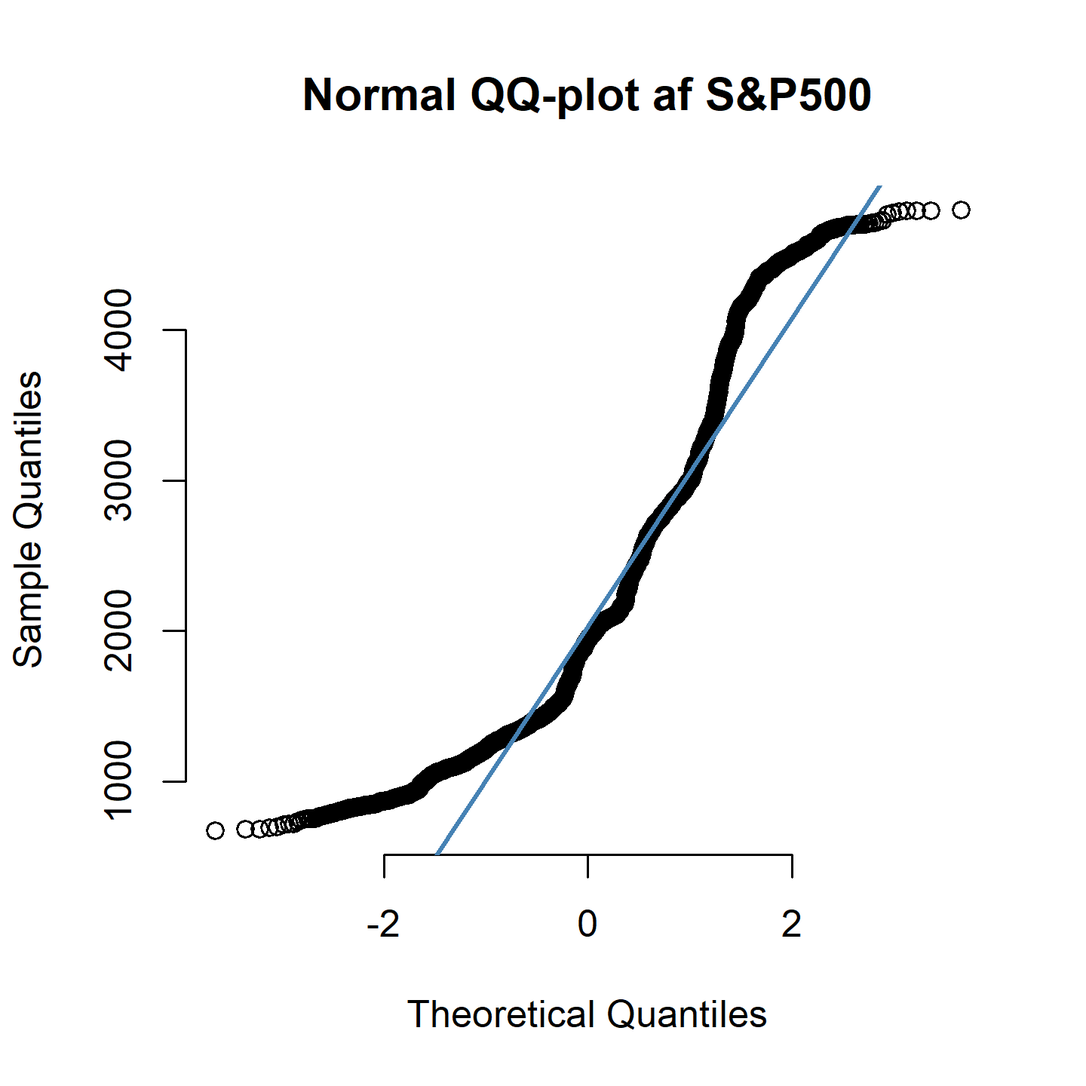
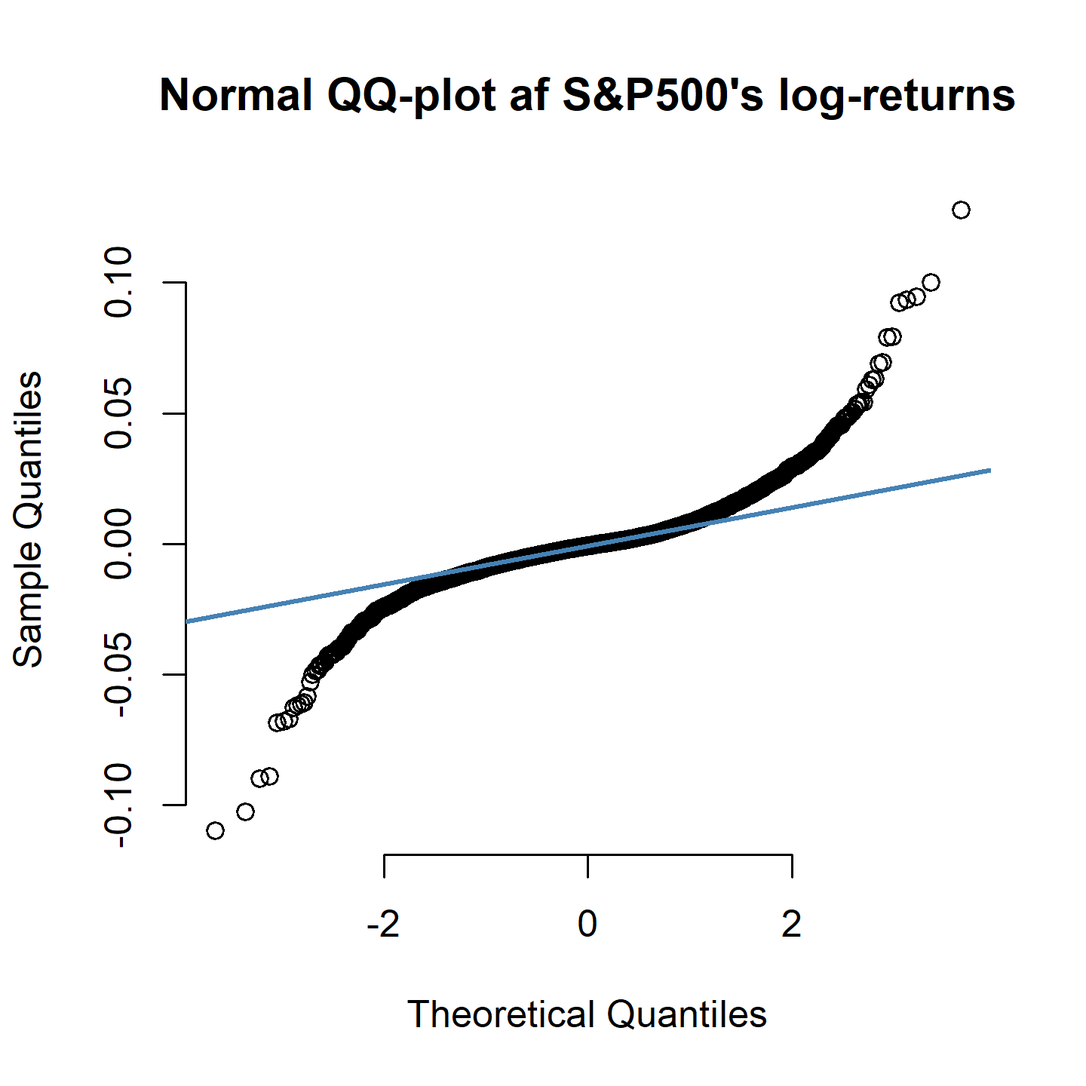
Post-Afleverings redigeringer

diff --git a/Overleaf/main.tex b/Overleaf/main.tex
@@ -17,6 +17,8 @@
 \usepackage{xcolor}
 %\usepackage{allrunes}
 \usepackage{setspace}
+\usepackage[normalem]{ulem}
+
 
 %%%%%%%%%%%%%%%%%%%%%%%%%%%%%%%%
 %%          TITLE             %%
@@ -111,12 +113,12 @@
 
 \newpage
 \setcounter{section}{-1}
-\section{Indeledning}
-I denne afhandling bliver der lagt ud med studie om, hvorvidt en Ornstein-Uhlenbeck proces med mean-reversion passer godt til de data vi ser fra VIX og S\&P500, samt hvor præcis vi kan estimere modellens parametre.
+\section{Indledning}
+I denne afhandling bliver der lagt ud med et studie om, hvorvidt en Ornstein-Uhlenbeck proces med mean-reversion passer godt til de data vi ser fra VIX og S\&P500, samt hvor præcis vi kan estimere modellens parametre.
 
-Efter det bliver der taget et dyk ned i hvorvidt en geometrisk brownsk proces med drift i stedet for mean-reversion lader til passe med vores data, og dertil bliver der undersøgt, hvor præcis denne model er til at kunne delta-hedge call optioner. I denne del bliver tid-t priserne og optioners delta også udledt, ikke mindst gennem brugen af Itôs-formel.
+Herefter bliver der taget et dyk ned i hvorvidt en geometrisk brownsk proces med drift i stedet for mean-reversion lader til at passe med vores data fulgt op an en undersøgelse af, hvor præcis denne model er i forhold til at kunne delta-hedge optioner. I denne del bliver tid-t priserne og optioners delta også udledt, ikke mindst gennem brugen af Itôs-formel.
 
-Til sidst kigger vi også på, hvad man kan gøre for at forbedre præcisionen gennem estimationen for den brownske bevægelses volatilitet.
+Afslutningsvis kigger vi på, hvad man kan gøre for at forbedre præcisionen gennem estimation for den brownske bevægelses volatilitet.
 
 Gennem meget af denne afhandling gøres der brug af programmeringssproget R. Koden er her todelt. Afsnit 1 og 3 bruger filen "R code del 1.R", mens afsnit 2 bruger filen "Rolf\_Hedge\_kode.R". Disse filer sammen med dette latex dokument kan findes på GitHub linket \href{https://github.com/JonasW01ff/Bachelor-Projekt}{https://github.com/JonasW01ff/Bachelor-Projekt}. Synes man, at billederne er lidt små, da kan de også findes i .png format inde på GitHub linket.
 \newpage
@@ -135,13 +137,13 @@ Nu integrerer vi fra t til t+u
 $$e^{\kappa(t+u)}X_{t+u}-e^{\kappa t}X_t=\left[\theta e^{\kappa t}\right]_{t}^{t+u}+\int_{t}^{t+u}\sigma e^{\kappa t}\text d W_t$$
 $$\ens X_{t+u}=e^{-\kappa u}X_t + e^{-\kappa(t+u)}\left[\theta e^{\kappa t}\right]_{t}^{t+u}+e^{-\kappa(t+u)}\int_{t}^{t+u}\sigma e^{\kappa t}\text d W_t$$
 $$=e^{-\kappa u}X_t + \theta(1-e^{-\kappa u})+e^{-\kappa(t+u)}\int_{t}^{t+u}\sigma e^{\kappa t}\text d W_t$$
-Her indser vi, at det eneste stokastiske i udtrykket, er det stokastiske intergrale af en deterministisk funktion med hensyn til en wiener process selv hvis det er betinget på filtreringen $\mathcal F_t$ som er informationen genereret af $X$ over tidsintervallet $[0,t]$; Dvs, på samme måde som Björk definere det i definition 4.3 \cite{Bjork2020}. Derfor ved vi, at $X_{t+u}$ er normalfordelt, hvilket også gælder hvis den er betinget på $\mathcal F_t$, efter som at wiener processen også er normalfordelt, selv hvis den er betinget på $\mathcal F_t$, j.f. \cite{Bjork2020} definition 4.1. Vi kan nu udlede den betingede middelværdi og varians. Det bruges nedenfor at forventningen til $\text dW_t$ er 0, så det stokastiske intergrale går ud.
+Her indser vi, at det eneste stokastiske i udtrykket, er det stokastiske intergrale af en deterministisk funktion med hensyn til en wiener process selv hvis det er betinget på filtreringen $\mathcal F_t$ som er informationen genereret af $X$ over tidsintervallet $[0,t]$; Dvs, på samme måde som Björk definere det i definition 4.3 \cite{Bjork2020}. Derfor ved vi, at $X_{t+u}$ er normalfordelt, hvilket også gælder hvis den er betinget på $\mathcal F_t$, efter som at wiener processen også er normalfordelt, selv hvis den er betinget på $\mathcal F_t$, j.f. \cite{Bjork2020} definition 4.1. Vi kan nu udlede den betingede middelværdi og varians. \textcolor{red}{Nedenfor bruges Björks proposition 4.5. \cite{Bjork2020}.}
 
 $$\text E\left[X_{t+u}|\mathcal F_t\right] = e^{-\kappa u}X_t + \theta(1-e^{-\kappa u}) + e^{-\kappa(t+u)}\text E\left[\int_{t}^{t+u}\sigma e^{\kappa t}\text d W_t|\mathcal F_t\right]$$
 $$=e^{-\kappa u}X_t + \theta(1-e^{-\kappa u})$$
 $$\text V\left[X_{t+u}|\mathcal F_t\right]= \text E\left[\left(e^{-\kappa(t+u)}\int_{t}^{t+u}\sigma e^{\kappa t}\text d W_t\right)^2|\mathcal F_t\right]$$
-$$= e^{-2\kappa(t+u)}E\left[\left(\int_{t}^{t+u}\sigma e^{\kappa t}\text d W_t\right)^2|\mathcal F_t\right]= e^{-2\kappa(t+u)}\text E \left[\int_{t}^{t+u}\sigma^2 e^{2\kappa t}\text (d W_t)^2|\mathcal F_t\right]$$
-$$=e^{-2\kappa(t+u)}\text E \left[\int_{t}^{t+u}\sigma^2 e^{2\kappa t}\text dt|\mathcal F_t\right]=e^{-2\kappa(t+u)}\text E \left[\left[\frac{\sigma^2 e^{2\kappa t}}{2\kappa}\right]_{t}^{t+u}|\mathcal F_t\right]$$
+\textcolor{red}{$$= e^{-2\kappa(t+u)}E\left[\left(\int_{t}^{t+u}\sigma e^{\kappa t}\text d W_t\right)^2|\mathcal F_t\right]= e^{-2\kappa(t+u)}\int_{t}^{t+u}\text E \left[\sigma^2 e^{2\kappa t}|\mathcal F_t\right]\text dt$$\newpage
+$$=e^{-2\kappa(t+u)}\int_{t}^{t+u}\text E \left[\sigma^2 e^{2\kappa t}|\mathcal F_t\right]\text dt=e^{-2\kappa(t+u)}\left[\frac{\sigma^2 e^{2\kappa t}}{2\kappa}\right]_{t}^{t+u}$$}
 $$=e^{-2\kappa(t+u)}\frac{\sigma^2 (e^{2\kappa (t+u)}-e^{2\kappa t})}{2\kappa}=\frac{\sigma^2 (1-e^{-2\kappa u})}{2\kappa}$$
 Det vil sige $X_{t+u}|\mathcal F_t\sim\mathcal N\left(e^{-\kappa u}X_t + \theta(1-e^{-\kappa u}),\frac{\sigma^2 (1-e^{-2\kappa u})}{2\kappa}\right)$
 
@@ -155,19 +157,19 @@ $$\ell(\text{data};a,b,v)=\ln(L(\text{data};a,b,v))=\sum_{i=1}^n \ln\left(\frac1
 $$=\sum_{i=1}^n-\frac12\ln(v2\pi)-\frac{(x_i-x_{i-1}a-b)^2}{2v}$$
 Vi finder først MLE for $a,b$ og $v$. Nedenfor definerer jeg en notation, hvor subskriften angiver hvor meget bagud lag der er på variablen, f.eks. $x_{01}^\bullet:=\sum_{i=1}^nx_ix_{i-1}$
 
-$$ 0=\frac{\partial \ell}{\partial a}=\sum_{i=1}^n\frac{x_i-x_{i-1}a-b}{v}x_{i-1}\ens0=\sum_{i=1}^n x_ix_{i-1}-x_{i-1}^2a-bx_{i-1}$$
+$$ 0=\frac{\partial \ell}{\partial a}=\sum_{i=1}^n\frac{x_i-x_{i-1}a-b}{v}x_{i-1}\ens0=\sum_{i=1}^n x_ix_{i-1}-\color{red}(x_{i-1})^2\color{black}a-bx_{i-1}$$
 $$:=x^\bullet_{01}-x^\bullet_{11}a-x^\bullet_1b\ens \hat a=\frac{x_{01}^\bullet-x^\bullet_1\hat b}{x^\bullet_{11}}$$
 
 $$0=\frac{\partial \ell}{\partial b}=\frac{x^\bullet_0-x_1^\bullet a-nb}{v}\ens nb = x_0^\bullet-x_1^\bullet\left[ \frac{x_{01}^\bullet}{x_{11}^\bullet}-\frac{x_1^\bullet}{x_{11}^\bullet}b \right]$$
-$$\ens b\left(n-x_1^\bullet\frac{x_1^\bullet}{x_{11}^\bullet}\right)=x_0^\bullet-x_1^\bullet\frac{x_{01}^\bullet}{x_{11}^\bullet}\ens \hat b = \frac{x_0^\bullet-x_1^\bullet\frac{x_{01}^\bullet}{x_{11}^\bullet}}{n-x_1^\bullet\frac{x_1^\bullet}{x_{11}^\bullet}}$$
+$$\ens b\left(n-x_1^\bullet\frac{x_1^\bullet}{x_{11}^\bullet}\right)=x_0^\bullet-x_1^\bullet\frac{x_{01}^\bullet}{x_{11}^\bullet}\ens \hat b = \frac{x_0^\bullet-x_1^\bullet\frac{x_{01}^\bullet}{x_{11}^\bullet}}{n-x_1^\bullet\frac{x_1^\bullet}{x_{11}^\bullet}}\color{red}=\frac{\frac{x_0^\bullet}{x_1^\bullet}-\frac{x_{01}^\bullet}{x_{11}^\bullet}}{\frac{n}{x_1^\bullet}-\frac{x_{1}^\bullet}{x_{11}^\bullet}}=\frac{x_0^\bullet x_{11}^\bullet-x_{01}^\bullet x_1^\bullet}{n x_{11}^\bullet- x_1^{\bullet}x_1^{\bullet}}\color{black}$$
 
 $$0=\frac{\partial \ell}{\partial v}=\sum_{i=1}^n -\frac12\frac{2\pi}{v2\pi}+\frac{(x_i-x_{i-1}a-b)^2}{2v^2}\ens 0=\sum_{i=1}^n -v+(x_i-x_{i-1}a-b)^2$$
 $$\hat v = \frac1n\sum_{i=1}^n(x_i-x_{i-1}\hat a-\hat b)^2$$
-Her bør man bemærke, at observationerne er antaget ækvidistante så ledes at $\Delta t_i$ kan beskrives med en enkelt konstant $\Delta t$. Dvs., at udledningen ovenfor kun gælder, hvis obervationerne er ækvidistante. 
+Her bør man bemærke, at observationerne er antaget ækvidistante så ledes at $\Delta t_i$ kan beskrives med en enkelt konstant $\Delta t$\color{red}; At vi bruger et konstant $\Delta t_i$ kan ses i loglikelihoodfunktionen, hvor at $\Delta t$ bruges istedet for $\Delta t_i$, dvs. i $a$,$b$ og $v$\color{black}. Dvs., at udledningen ovenfor kun gælder, hvis obervationerne er ækvidistante. 
 MLE for $\kappa,\theta,\sigma^2$ findes ved at sige.
 $$e^{-\kappa\Delta t}=\hat a\ens \hat \kappa=\frac{\ln(\hat a)}{-\Delta t}$$
-$$\theta(1-e^{-\hat \kappa \Delta t})=\hat b\ens \hat \theta =\frac{\hat b}{1-e^{-\hat \kappa\Delta t}}$$
-$$\sigma^2(1-e^{-2\hat\kappa\Delta t})/(2\hat\kappa)=\hat v \ens \hat{\sigma^2}=\frac{2\hat\kappa\hat v}{1-e^{-2\hat\kappa\Delta t}}$$
+$$\theta(1-e^{-\hat \kappa \Delta t})=\hat b\ens \hat \theta =\frac{\hat b}{1-e^{-\hat \kappa\Delta t}}\color{red}=\frac{\hat b}{1-\hat a}\color{black}$$
+$$\sigma^2(1-e^{-2\hat\kappa\Delta t})/(2\hat\kappa)=\hat v \ens \hat{\sigma^2}=\frac{2\hat\kappa\hat v}{1-e^{-2\hat\kappa\Delta t}}\color{red}=\frac{2\hat\kappa\hat v}{1-{\hat a}^2}\color{black}$$
 Vi er dog også interesserede i  konfidensintervallerne for vore parametre, og til det bruges et simulations eksperiment omkring vores MLE'er. Det kunne dog godt tænkes, at et smartere trick angående fisher informationen og den asymptotiske statistik-lære kunne bruges, men dette gøres først senere.
 
 \subsection{Reality check}
@@ -182,13 +184,14 @@ Ved simulation finder vi, at MLE'erne passer ret godt. Det gør vi ved at at sim
  0.05&0.2&0.4&5&100&(-0.25, 2.85)&(-4.79, 9.28)&(0.02, 1.31)\\
  0.05&0.2&0.4&100&100&(0.03, 0.26)&(-1.96, 3.05)&(0.30, 0.49)\\
  0.05&0.2&0.4&1000&100&(0.04, 0.08)&(-0.44, 0.94)&(0.37, 0.44)\\
- 0.05&0.2&0.4&10000&100&(0.04, 0.06)&(-0.04, 0.43)&(0.39, 0.41)
+ 0.05&0.2&0.4&10000&100&(0.04, 0.06)&(-0.04, 0.43)&(0.39, 0.41)\\
+ \color{red}0.05&\color{red}0.2&\color{red}0.4&\color{red}100000&\color{red}100&\color{red}(0.048, 0.052)&\color{red}(0.13, 0.27)&\color{red}(0.397, 0.403)
 \end{tabular}
 %\end{table}
 \end{center}
 Det blev her forudsat at observationerne var fordelt med 
 $$X_{t+u}|\mathcal F_t\sim\mathcal N\left(e^{-\kappa u}X_t + \theta(1-e^{-\kappa u}),\frac{\sigma^2 (1-e^{-2\kappa u})}{2\kappa}\right)$$
-hvor $X_t=100$. Vi ser at konfidens intervallerne ligger rigtig pænt rundt om de sande parametre. Det lader derfor til at MLE'erne er rigtige. Vi ser også, at det kræver omkring 1000 observationer for at få nogenlunde gode konfidensintervaller, $\theta$ lader dog til at kræve flere observationer, end vi har tester her (Komputer har ikke uanede mængder processor kraft), så dette motiverer os til at finde de asymptotiske konfidensintervaller i afsnit 1.5, da dette vil kræve meget færre udregninger.  
+hvor $X_t=100$. Vi ser at konfidens intervallerne ligger rigtig pænt rundt om de sande parametre. Det lader derfor til at MLE'erne er rigtige. Vi ser også, at det kræver omkring 1000 observationer for at få nogenlunde gode konfidensintervaller; $\theta$ \color{red}lader dog til at kræve et  $n=100000$, hvilket må siges at være ret meget, og beregningsmæssigt tungt;\color{black} så dette motiverer os til at finde de asymptotiske konfidensintervaller i afsnit 1.5, da dette vil kræve meget færre udregninger.  
 \subsection{log likelihood afledte}
 I det næste afsnit får vi brug for vore loglikelihoods afledte. Til det lad os først definere en notation hvor at $f(z_1,\hdots,z_n)_{z_{I_1},\hdots,z_{I_m}}:=\frac{\partial^m f}{\partial z_{I_1}\hdots\partial z_{I_m}}$ hvor $I\in \mathcal P(\mathbb N)$, og funktioner, hvor parametrene ikke er angivet: Tages parametrene $(x_i;x_ie^{-\kappa\Delta t}+\theta(1-e^{-\kappa\Delta t}),\frac{\sigma^2(1-e^{-2\kappa\Delta t})}{2\kappa})$. Dermed får vi resulaterne.
 $$\frac{\partial \ell}{\partial \theta}=\sum_{i=1}^n\frac{1}{\phi}\phi_\mu\mu_\theta$$
@@ -205,7 +208,7 @@ De anden afledte lader vi udregne ved numerisk approximation.
 %$$\frac{\partial^2 \ell}{\partial \theta\partial \kappa}=\sum_{i=1}^n-\frac{1}{\phi(i)^2}\phi_\kappa\phi_\mu\mu_\theta+\frac1{\phi(i)}\phi_{\mu\kappa}\mu_\theta+\frac{1}{\phi(i)}\phi_\mu\mu_{\theta\kappa}$$
 %$$\frac{\partial^2 \ell}{\partial \theta\partial \sigma}=\sum_{i=1}^n-\frac{1}{\phi(i)^2}\phi_\sigma\phi_\mu\mu_\theta+\frac1{\phi(i)}\phi_{\mu\sigma}\mu_\theta+\frac{1}{\phi(i)}\phi_\mu\mu_{\theta\sigma}$$
 \subsection{Det asymptotiske konfidensinterval}
-Det er et velkendt resultat at normal fordeling er en eksponentiel familie, og vi kan dermed bruge lauritzen 2021's Theorem 4.11 \cite{Lauritzen2021} til at opskrive.
+Det er et velkendt resultat at normal fordeling er en eksponentiel familie, og vi kan dermed bruge lauritzen 2021's \color{red}Theorem 4.14\color{black} \cite{Lauritzen2021} til at opskrive.
 $$(\hat\kappa,\hat\theta,\hat{\sigma^2})\overset{as}{\sim}\mathcal N_3((\kappa,\theta,\sigma^2),\tilde{i}_n (\kappa,\theta,\sigma^2)^{-1})$$
 Det vil sige, at har vi fisher informationen $\tilde{i}_n (\kappa,\theta,\sigma^2)^{-1})$, så kan vi finde $1-\alpha$ konfidenstinervallet som:
 $$(\hat\kappa,\hat\theta,\hat{\sigma^2})\pm \sqrt{\text{diag}(\tilde{i}_n (\hat\kappa,\hat\theta,\hat{\sigma^2})^{-1})}\gamma_{1-\alpha/2}$$
@@ -255,12 +258,12 @@ Resultaterne ser her meget fornuftigt ud. Vi kan nu bruge vores MLE til at plott
     \label{fig:logVIX}
 \end{subfigure}
 \end{figure}
-Man ser her, at vores processer følger ln(VIX) bedre end VIX, selvom der stadig er tydelige afvigelser, idet processerne ikke ligner dataen. Vi kan også kigge på vores antagelse om at VIX er normalfordelt. Nedenfor ses 2 QQ-plot, der kan hjælpe med at bedømme, hvilken data-serie der passer bedst med normalfordelings antagelsen.
+Man ser her, at vores processer følger ln(VIX) bedre end VIX, selvom der stadig er tydelige afvigelser, idet processerne ikke ligner dataen. Vi kan også kigge på vores antagelse om at VIX er normalfordelt. Nedenfor ses 2 QQ-plot, der kan hjælpe med at bedømme, hvilken data-serie der passer bedst med\color{red}, at en Gausssisk Ornstein-Uhlenbeck proces tilnærmelses vist følger en normalfordeling.\color{black}
 \begin{center}
     \includegraphics[width=4in]{QQ_VIX_vs_lnVIX}
 \end{center}
-Her ses det at ln(VIX) ligger mere normal fordelt i forhold til kvantilerne end VIX gør. Vi kan derfor konkludere, at ln(VIX)-modellen passer bedst til dataene.
-\section{Pricing and hedging in the Black-Scholes model}
+Her ses det at ln(VIX) ligger mere normalfordelt i forhold til kvantilerne end VIX gør. Vi kan derfor konkludere, at ln(VIX)-modellen passer bedst til dataene.
+\section{Pricing \textcolor{red}{og} hedging \textcolor{red}{i} Black-Scholes model\textcolor{red}{len}}
 \subsection{Europæisk call option}
 Til at starte med udledes et brugbart resultat. Vi definerer først en stokastisk differential ligning for en geometrisk brownsk bevægelse.
 $$\text d X_t = \beta X_t\text dt+\xi X_t \text dW_t$$
@@ -268,41 +271,45 @@ Og funktionen samt procesen.
 $$f(t,x)=e^{(\beta-\alpha)(T-t)}x,\quad Y_t=f(t,X_t)=e^{(\beta-\alpha)(T-t)}X_t$$
 Vi kan nu finde $X_t$ ved brug af itô's formel, proposition 4.12 i Björk \cite{Bjork2020}.
 $$\text dY_t=-(\beta-\alpha)e^{(\beta-\alpha)(T-t)}X_t\text d_t+e^{(\beta-\alpha)(T-t)}\text dX_t$$
-$$=-(\beta-\alpha)e^{(\beta-\alpha)(T-t)}X_t\text dt+e^{(\beta-\alpha)(T-t)}(\beta X_t\text dt+\xi X_t\text dW_t)$$
-$$=e^{(\beta-\alpha)(T-t)}X_t(\beta-(\beta-\alpha))\text dt+\xi X_t\text dW_t$$
-$$=e^{(\beta-\alpha)(T-t)}X_t\alpha\text dt+\xi X_t\text dW_t$$
+$$=-(\beta-\alpha)e^{(\beta-\alpha)(T-t)}X_t\text dt+e^{(\beta-\alpha)(T-t)}(\beta X_t\text dt+\xi \color{red}Y_t\color{black}\text dW_t)$$
+$$=e^{(\beta-\alpha)(T-t)}X_t(\beta-(\beta-\alpha))\text dt+\xi \color{red}Y_t\color{black}\text dW_t$$
+$$=\alpha\color{red}Y_t\color{black}\text dt+\xi \color{red}Y_t\color{black}\text dW_t$$
 Vi bruger Björks proposition 7.13 \cite{Bjork2020}, hvor ligning (7.53) og (7.54) giver os at
 $$d_1(t,Y_0) :=\frac{1}{\xi\sqrt{T-0}}\left[\ln\left(\frac{Y_0}{K}\right)+(\alpha+\frac12\xi)(T-0) \right]$$
 $$=\frac{T(\beta-\alpha)+\ln\left(\frac{X_0}{K}\right)+(\alpha+\frac12\xi)T}{\xi\sqrt T}=\frac{\ln\left(\frac{X_0}{K}\right)+(\beta+\frac12\xi^2)T}{\xi\sqrt T}$$
 $$d_2(t,Y_0):=\frac{\ln\left(\frac{X_0}{K}\right)+(\beta+\frac12\xi^2)T}{\xi\sqrt T}-\xi\sqrt{T}$$
 $$=\frac{\ln\left(\frac{X_0}{K}\right)+(\beta+\frac12\xi^2)T-\xi^2T}{\xi\sqrt T}=\frac{\ln\left(\frac{X_0}{K}\right)+(\beta-\frac12\xi^2)T}{\xi\sqrt T}$$
-Og dermed får vi det nyttige resultat, som kan ses som en tid T pris tilbage diskonteret til tid t for europæisk call option.
-$$F(t,Y_0)=Y_0\Phi(d_1)-e^{-\alpha T}K\Phi(d_2)$$
+Og dermed får vi det nyttige resultat, som kan ses som en tid T pris tilbage diskonteret til tid 0 for en europæisk call option\color{red} på markedet
+$$\text dB_t = rB_t\text d_t$$
+$$\text d S_t = \mu S_t\text d_t +\sigma \text dW_t$$
+Hvor $B_t$ er bankbogen, og $X_t$ er det underliggende aktiv:
+
+$$e^{-\alpha T}\text E[(X_T-K)^+]=\color{black}F(t,Y_0)=Y_0\Phi(d_1)-e^{-\alpha T}K\Phi(d_2)$$\color{black}
 $$=e^{(\beta-\alpha)T}X_0\Phi\left(\frac{\ln\left(\frac{X_0}{K}\right)+(\beta+\frac12\xi^2)T}{\xi\sqrt T}\right)-e^{-\alpha T}K\Phi\left(\frac{\ln\left(\frac{X_0}{K}\right)+(\beta-\frac12\xi^2)T}{\xi\sqrt T}\right)$$
-Endvidere kunne vi tænke os at finde tid $t-\Delta$'et for vores europæiske call-option i markedet.
+Endvidere kunne vi tænke os at finde tid $t-\Delta$'et for en europæiske call-option i markedet.
 $$\text dB_t = rB_t\text d_t$$
 $$\text d S_t = \mu S_t\text d_t +\sigma \text dW_t^P$$
-P skal her forstås som aktie-pris dynamikken. Pris processen $B_t$ er her det risiko fri aktiv, og pris-processen $S_t$ er aktie kuren. $\mu,r$ og $\sigma>0$ er konstanter. Björks proposition 7.13 \cite{Bjork2020} fortæller os nu at tid-t prisen på den europæiske call option er.
-$$\Pi_t=F(t,S_t)=S_t\Phi\left(\frac{\ln\left(\frac{S_t}{K}\right)+(r+\frac12\sigma^2)(T-t)}{\sigma\sqrt{T-t}}\right)-e^{-r(T-t)}\Phi\left(\frac{\ln\left(\frac{S_t}{K}\right)+(r-\frac12\sigma^2)(T-t)}{\sigma\sqrt{T-t}}\right)$$
-$$:= S_t\Phi(d_1^a)-e^{-r(T-t)}\Phi(d_2^a)$$
+P skal her forstås som aktie-pris dynamikken. Pris processen $B_t$ er her det risiko fri aktiv, og pris-processen $S_t$ er aktiekursen. $\mu,r$ og $\sigma>0$ er konstanter. Björks proposition 7.13 \cite{Bjork2020} fortæller os nu at tid-t prisen på den europæiske call option er.
+$$\Pi_t=F(t,S_t)=S_t\Phi\left(\frac{\ln\left(\frac{S_t}{K}\right)+(r+\frac12\sigma^2)(T-t)}{\sigma\sqrt{T-t}}\right)-e^{-r(T-t)}\color{red}K\color{black}\Phi\left(\frac{\ln\left(\frac{S_t}{K}\right)+(r-\frac12\sigma^2)(T-t)}{\sigma\sqrt{T-t}}\right)$$
+$$:= S_t\Phi(d_1^a)-e^{-r(T-t)}\color{red}K\color{black}\Phi(d_2^a)$$
 tid t-$\Delta$'et er da
 $$\Delta(S_t,t) = \frac{\partial \Pi_t}{\partial S_t}=\Phi(d_1^a)+S_t\frac{\phi(d_1^a)}{S_t\sigma\sqrt{T-t}}-e^{-r(T-t)}K\frac{\phi(d_2^a)}{S_t\sigma\sqrt{T-t}}$$
 $$=\Phi(d_1^a)+\frac{S_t\phi(d_1^a)-e^{-r(T-t)}K\phi(d_2^a)}{S_t\sigma\sqrt{T-t}}=\Phi(d_1^a)+\frac{S_t\phi(d_1^a)-S_t\phi(d_1^a)}{S_t\sigma\sqrt{T-t}}=\Phi(d_1^a)$$
 Her er det brugt at $\phi(d_2^a)=\phi(d_1^a)\frac{S_t}{K}e^{r(T-t)}$, og at standard normalfordelingens tæthedsfunktion er navngivet $\phi$. Nedenfor vises udledning af vores trick.
-$$\phi(d_2^a)=\phi(d_1^a-\sigma\sqrt{T-t})=\frac{1}{\sqrt{2\pi}}e^{-\frac12\left[(d_1^a)^2+\sigma^2(T-t)-2d_1^a\sqrt{T-t}\right]}$$
-$$=\phi(d_1^a)e^{-\frac12\left[\sigma^2(T-t)-2d_1^a\sqrt{T-t}\right]}=\phi(d_1^a)e^{-\frac12\left[\sigma^2(T-t)-2\frac{\ln\left(\frac{S_t}{K}\right)+(r+\frac12\sigma^2)(T-t)}{\sigma\sqrt{T-t}}\sqrt{T-t}\right]}=\phi(d_1^a)\frac{S_t}{K}e^{r(T-t)}$$
+$$\phi(d_2^a)=\phi(d_1^a-\sigma\sqrt{T-t})=\frac{1}{\sqrt{2\pi}}e^{-\frac12\left[(d_1^a)^2+\sigma^2(T-t)-2d_1^a\color{red}\sigma\color{black}\sqrt{T-t}\right]}$$
+$$=\phi(d_1^a)e^{-\frac12\left[\sigma^2(T-t)-2d_1^a\color{red}\sigma\color{black}\sqrt{T-t}\right]}=\phi(d_1^a)e^{-\frac12\left[\sigma^2(T-t)-2\frac{\ln\left(\frac{S_t}{K}\right)+(r+\frac12\sigma^2)(T-t)}{\sigma\sqrt{T-t}}\color{red}\sigma\color{black}\sqrt{T-t}\right]}=\phi(d_1^a)\frac{S_t}{K}e^{r(T-t)}$$
 \subsection{Digital option}
-Ligeledes vil vi nu finde prisen på en digital option. Til det bruges Björks ligning (7.50) \cite{Bjork2020}, Q står her for det risiko neutrale mål. Vi definerer også et $\\Z\sim\mathcal N((r-\frac12\sigma^2)(T-t),\sigma\sqrt{T-t})$ og ligeledes dens henholdvise tæthedsfunktion $\phi_Z$ og fordelingsfunktion $\Phi_Z$. Derudover er $\Pi_t$ den arbitragefri tid-t pris. 
+Ligeledes vil vi nu finde prisen på en digital option \color{red}med strike K; Der bruges det samme marked som vi slutte af med i forrige afsnit\color{black}. Til det bruges Björks ligning (7.50) \cite{Bjork2020}, Q står her for det risiko neutrale mål. Vi definerer også et $\\Z\sim\mathcal N((r-\frac12\sigma^2)(T-t),\sigma\sqrt{T-t})$ og ligeledes dens henholdvise tæthedsfunktion $\phi_Z$ og fordelingsfunktion $\Phi_Z$. Derudover er $\Pi_t$ den arbitragefri tid-t pris. 
 $$E^Q_{t,S_t}\left[1_{S_T\leq K}\right]=\int_{-\infty}^{\infty}1_{S_te^{z}\leq K}\phi_Z(z)\text dz=\int_{-\infty}^{\ln\left(\frac K{S_t}\right)}\phi_Z(z)\text d z=\Phi_Z\left(\ln\left(\frac{K}{S_t}\right)\right)$$
 $$\ens \Pi_t=F(t,S_t)=e^{-r(T-t)}\Phi_Z\left(\ln\left(\frac{K}{S_t}\right)\right)$$
-Vi er ligeledes interesseret i den tid t $\Delta$, som findes nedenfor for vores digitale option.
+Vi er ligeledes interesseret i den tid t-$\Delta$, som findes nedenfor for vores digitale option.
 $$\Delta(S_t,t)=\frac{\partial \Pi_t}{\partial S_t}=e^{-r(T-t)}\phi_Z\left(\ln\left(\frac{K}{S_t}\right)\right)\frac{1}{K/S_t}\left(-\frac{K}{S_t^2}\right)=-e^{-r(T-t)}\phi_Z\left(\ln\left(\frac{K}{S_t}\right)\right)\frac{1}{S_t}$$
 Dette er brugbart da det beskriver, hvor meget der skal investeres i det risiko fyldte aktiv (og der med også det risikofrie aktiv), hvis optionen skal Delta-hedges i Black-Scholes modellen.
 \subsection{Hedging af en europæisk call option}
-Et R program skrevet af Rolf Poulsen (og redigeret af mig, Jonas Wolff) der hedger optioner kan findes på \href{https://github.com/JonasW01ff/Bachelor-Projekt/blob/main/Rolf_Hedge_kode.R}{github.com/JonasW01ff/Bachelor-Projekt/blob/main/Rolf\_Hedge\_kode.R}. Koden udregner blandt andet for en europæisk call option antal aktier i det underliggende aktiv og værdi investeret i bankbogen ved brug af Björks Theorem 8.5 \cite{Bjork2020} til at replikere call optionen, som blandt andet siger at.
+Et R program skrevet af Rolf Poulsen (og redigeret af mig, Jonas Wolff) der hedger optioner kan findes på \href{https://github.com/JonasW01ff/Bachelor-Projekt/blob/main/Rolf_Hedge_kode.R}{github.com/JonasW01ff/Bachelor-Projekt/blob/main/Rolf\_Hedge\_kode.R}. Koden udregner blandt andet for en europæisk call option antal aktier i det underliggende aktiv og antal kroner investeret i bankbogen ved brug af Björks Theorem 8.5 \cite{Bjork2020} til at replikere call optionen, som blandt andet siger at.
 $$h^S_t=\frac{\partial \Pi_t}{\partial S_t}$$
 $$h^B_tB_t=\Pi_t-S_t\frac{\partial \Pi_t}{\partial S_t}$$
-Hvor $h^S_t$ skal forstås som antal aktier i det underliggende aktiv $S_t$, og $h^B_t$ som antal aktier i det risikofri aktiv (Dvs. $h^B_tB_t$ er antal kr. i bankbogen til tid t). Ud fra det kan den replikerende porteføljes værdi udregnes som
+Hvor $h^S_t$ skal forstås som antal aktier i det underliggende aktiv $S_t$, og $h^B_t$ som antal aktier i det risikofri aktiv (Dvs. $h^B_tB_t$ er antal kr. i bankbogen til tid t). Ud fra det kan den replikerende porteføljes værdi udregnes som \color{red}(Dette skal forstås som en identitet; Dermed ikke et resultat)\color{black}
 $$V^h_t=h^S_tS_t+h^B_tB_t=\Pi_t$$
 Disse værdier udregnes Nhedge antal gange inden for løbetiden, med ækvidistante mellem rum (hvor Nhedge er en konstant). Man kan nu gøre dette et antal gange (her kaldet Nrep), og derefter sammenligne den replikerende porteføljes værdi, og optionens værdi $V^{Call}_t=\max(S_t-K,0)$. Dette er f.eks. gjort i koden ved at tage gennemsnitet af de tilbagediskonterede afvigelser. 
 
@@ -314,7 +321,7 @@ Skulle man være i en situation, hvor det underliggende aktivs drift ikke er lig
     \label{fig:my_label4}
 \end{figure}
 
-I tilfældet af at man ikke har fundet det rigtige $\sigma$ til at bruge i black-scholes, da ser vi tilgengæld at de endelige afvigelser mellem den replikerende portefølje og optionen øges. Dette er på grund af at teorien antager, at vi bruger volatiliteten der faktisk er på det risiko fyldte aktiv. Dette ses i figur \ref{fig:my_label4}
+I tilfældet af at man ikke har fundet det rigtige $\sigma$ til at bruge i black-scholes, da ser vi til gengæld at de endelige afvigelser mellem den replikerende portefølje og optionen øges. Dette er på grund af at teorien antager, at vi bruger volatiliteten der faktisk er på det risiko fyldte aktiv. Dette ses i figur \ref{fig:my_label4}
 \begin{figure}
     \centering
     \includegraphics[width=3.5in]{Overleaf/1 opttype_mu_Nhedge.png}
@@ -322,10 +329,10 @@ I tilfældet af at man ikke har fundet det rigtige $\sigma$ til at bruge i black
     \label{fig:my_label5}
 \end{figure}
 
-I forhold til at føre Björks Theorem 8.5 \cite{Bjork2020} ud i livet har vi også et problem i forhold til, at modellen antager, at vi rebalancerer kontinuert over løbetiden, hvilket som bekendt er umuligt. Derfor må vi approksimere ved at rebalancere så ofte som muligt; Det betyder at jo flere gange vi rebalancere, jo mere præcis bliver vores delta hedging. Standardafvigelsen på forskellen mellem den replikerende portefølje og option stiger derfor jo færre rebalanceringer vi laver (Det der i koden kaldes Nhedge). Det tilhørende resultat findes i figur \ref{fig:my_label5}.
+I forhold til at føre Björks Theorem 8.5 \cite{Bjork2020} ud i livet, har vi også et problem i forhold til, at modellen antager, at vi rebalancerer kontinuert over løbetiden, hvilket som bekendt er umuligt: Derfor må vi approksimere ved at rebalancere så ofte som muligt; Det betyder at jo flere gange vi rebalancere, jo mere præcis bliver vores delta hedging. Standardafvigelsen på forskellen mellem den replikerende portefølje og option stiger derfor jo færre rebalanceringer vi laver (Det der i koden kaldes Nhedge). Det tilhørende resultat findes i figur \ref{fig:my_label5}.
 
 
-Kigger vi derimod på den digitale option, ser vi, at præcisionen stadig ikke afhænger nævneværdigt af om driften er lig renten, selvom vi stadig gøre brug af Q-målet. På den anden side bliver vi meget afhængige af om vores estimerede sigma\_hedge faktisk er det rigtige sigma, da et forkert sigma\_hedge vil øge forskellen mellem den replikerende portefølje og optionen gevaldigt. Antalet at rebalanceringer Nhedge, har også en ret stor betydning da vores options payoff ikke er kontinuert, og vi derfor har brug for rebalanceringer ret tæt omkring striken, og da vores rebalancering i vores teori skal være ækvidistante, kan vi ikke gøre andet end at øge antallet af rebalanceringer. Nedenfor vises simulationerne. Resultatet ses i figure \ref{fig:my_label3} og \ref{fig:my_label2}.
+Kigger vi derimod på den digitale option, ser vi, at præcisionen stadig ikke afhænger nævneværdigt af om driften er lig renten\sout{\color{red}{, selvom vi stadig gør brug af Q-målet}}. På den anden side bliver vi meget afhængige af om vores estimerede sigma\_hedge\footnote{Der er her tale om det sigma vi bruger til at hedge} faktisk er det rigtige sigma; da et forkert sigma\_hedge vil øge forskellen mellem den replikerende portefølje og optionen gevaldigt. Antalet at rebalanceringer Nhedge, har også en ret stor betydning, da vores options payoff ikke er kontinuert, og vi derfor har brug for rebalanceringer ret tæt omkring striken, og da vores rebalancering i vores teori skal være ækvidistante, kan vi ikke gøre andet end at øge antallet af rebalanceringer. Nedenfor vises simulationerne. Resultatet ses i figurene \ref{fig:my_label3} og \ref{fig:my_label2}.
 \begin{figure}
     \centering
     \includegraphics[width=3.5in]{Overleaf/3 opttype_standard_sigma.png}
@@ -343,15 +350,15 @@ Kigger vi derimod på den digitale option, ser vi, at præcisionen stadig ikke a
 
 
 \subsection{No touch digital option}
-Præcis samme argumentation som i den almindelige digital option kan bruges her igen ved at bruge Björks ligning (7.50) \cite{Bjork2020}, hvor vi definere $M_t:=\max_{0\leq u\leq t}S_u$ som værende payoff for vores no touch digitale option
+Præcis samme argumentation som i den almindelige digitale option kan bruges her igen ved at bruge Björks ligning (7.50) \cite{Bjork2020}, hvor vi nu definere $M_t:=\max_{0\leq u\leq t}S_u$ som værende \color{red}det underliggende aktiv for vores digitale option.\color{black}
 $$E^Q_{t,M_t}\left[1_{M_T\leq K}\right]=\int_{-\infty}^{\infty}1_{\max_{0\leq u\leq t} (S_ue^{z})\leq K}\phi_Z(z)\text dz=\int_{-\infty}^{\infty}1_{e^{z}M_t\leq K}\phi_Z(z)\text dz$$
-$$=\int_{-\infty}^{\ln\left(\frac K{M_t}\right)}\phi_Z(z)\text d z=\Phi_Z\left(\ln\left(\frac{K}{S_t}\right)\right)\ens \Pi_t=F(t,S_t)=e^{-r(T-t)}\Phi_Z\left(\ln\left(\frac{K}{M_t}\right)\right)$$
+$$=\int_{-\infty}^{\ln\left(\frac K{M_t}\right)}\phi_Z(z)\text d z=\Phi_Z\left(\ln\left(\frac{K}{\color{red} M_t}\color{black}\right)\right)\ens \Pi_t=F(t,S_t)=e^{-r(T-t)}\Phi_Z\left(\ln\left(\frac{K}{M_t}\right)\right)$$
 
 \section{Empirisk hedging}
 \subsection{Geometrisk Brownsk Bevægelse}
 Vi starter med den stokastiske differential ligning nedenfor.
 $$\text d X_t =  \mu X_t\text dt+\sigma X_t \text dW_t$$
-Her indser vi at forventningen til vores støj led $\sigma S_t\text d W_t$ er 0. Vi kan nu omskrive vores stokastiske differential ligning til.
+Her indser vi at forventningen til vores støj led $\sigma \color{red}X_t\color{black}\text d W_t$ er 0. Vi kan nu omskrive vores stokastiske differential ligning til.
 $$\frac{\text d X_t}{\text dt} =  \mu X_t+\sigma X_t \frac{\text dW_t}{\text dt}$$
 Hvor vi nu tager forventningen på begge sider
 $$\text E\left[\frac{\text d X_t}{\text dt}\right] =  \mu X_t$$
@@ -360,7 +367,7 @@ $$\text E[X_t|\mathcal F_u]=X_ue^{\mu (t-u)}$$
 Vi har dermed løst den stokastiske differential ligning for $X_t$, da vi ved at $X_t$ er normal fordelt, eftersom det eneste stokastiske led i ligningen er $\text d W_t$ skaleret med konstant, hvilket jo er en skaleret normalfordeling, og dermed stadig en normal fordeling. Så vi har
 $$X_t = X_{t-\Delta t}e^{\mu \Delta t}+\epsilon X_{t-\Delta t}\quad,\epsilon\sim\mathcal N(0,\sigma_\epsilon^2)$$
 Eller
-$$\text E[ln(X_t)|\mathcal F_{t-\Delta t}]=\text E[ln(X_{t-\Delta t})+\mu \Delta t]=ln(X_{t-\Delta t})+\mu \Delta t $$
+$$\text E[ln(X_t)|\mathcal F_{t-\Delta t}]=\text E[ln(X_{t-\Delta t})+\mu \Delta t\color{red}|\mathcal F_{t-\Delta t}\color{black}]=ln(X_{t-\Delta t})+\mu \Delta t $$
 Hvilket løses med almindelig lineær regression, hvor standard afvigelserne af residualerne divideret med $X_t$ giver os $\sigma_\epsilon$.
 \subsection{S\&P500}
 Vi vil nu udvide vore experiment til S\&P500, som ses på figur \ref{fig:VIXSP500}, hvor den første dato på både VIX og S\&P500 er normeret til 100, så de kan sammenlignes.
@@ -372,11 +379,11 @@ Vi vil nu udvide vore experiment til S\&P500, som ses på figur \ref{fig:VIXSP50
 \end{figure}
 Her ses det at S\&P500 har langt mindre volatilitet når normeret, og vi kan måske ane en tilnærmelsesvist konstant drift. Man kunne derfor tænke sig at sige, at denne er tættere på at kunne simuleres af en geometrisk brownsk bevægelse, da driften er næsten konstant, og volatiliteten ser ud til ved første øjekast kun at afhænge af kursen.
 
-Kigger vi på hvorledes S\&P500 er normal fordelt, kan vi se på figur \ref{fig:QQSP500}, at det lader til at være en ok antagelse.
+\color{red}Kigger vi på hvorledes S\&P500's log-returns er normalfordelte, da kan vi se på \ref{fig:QQSP500}, at det lader til at være en OK antagelse, men ikke ligefrem så godt som man kunne håbe den ville være.\color{black}
 \begin{figure}
     \centering
     \includegraphics[width=3.5in]{SP500_QQplot.png}
-    \caption{Et QQ-plot af S\&P500, normeret}
+    \caption{\color{red}Et QQ-plot af S\&P500's log-returns\color{black}}
     \label{fig:QQSP500}
 \end{figure}
 Ud fra vores teori omkring geometrisk brownsk bevægelse, da ser vi at vores MLE for volatiliteten er
@@ -395,7 +402,7 @@ Der ud over kunne man prøve at kigge på MLE for volatiliteten over den seneste
     \label{fig:EWMA_VIX}
 \end{figure}
 
-Her indser vi at S\&P500 har et par måder vi kunne estimere dens volatilitet på. F.eks. kunne vi vælge at kigge på VIX istedet for. Der ud over kunne vi kigge på enkelte måneder ad gangen, så vi får glattet vores volatiliteter lidt ud (Dette ville være smart da middelværdier er følsomme overfor outliers). Derudover kunne vi prøve at vægte nyligt hentede observationer højere end gamle ved brug af det eksponentielt vægtede rullende gennemsnit (EWMA)
+Her indser vi at S\&P500 har et par måder vi kunne estimere dens volatilitet på. F.eks. kunne vi vælge at kigge på VIX istedet for. Der ud over kunne vi kigge på enkelte måneder ad gangen, så vi får glattet vores volatiliteter lidt ud \color{red}\sout{(Dette ville være smart da middelværdier er følsomme overfor outliers)}\color{black}. Derudover kunne vi prøve at vægte nyligt hentede observationer højere end gamle ved brug af det eksponentielt vægtede rullende gennemsnit (EWMA)\color{red}. Nedenfor er det et gennemsnit af variablene der står skrevet.\color{black}
 $$\text{S\&P500 rullende:}\quad\hat{\sigma_{\infty}}=0.0130$$
 $$\text{S\&P500 EWMA:}\quad\hat{\sigma_{\infty}}=0.0139$$
 $$\text{VIX rullende:}\quad\hat{\sigma_{\infty}}=0.00201$$
@@ -404,7 +411,7 @@ Lad os nu prøve at delta hedge på S\&P500
 \begin{figure}
     \centering
     \includegraphics[width=3.5in]{Overleaf/option_call_monthlyGBM_meanVIX100}
-    \caption{Venstre: Hver måned udregnes GBM'ens volatilitet, Højre: hver måned udregnes månedens middelværdi af VIK/100}
+    \caption{Venstre: Hver måned udregnes GBM'ens volatilitet $\hat\sigma$ \color{red}ved brug af MLE\color{black}, Højre: hver måned udregnes månedens middelværdi af VIK/100}
     \begin{verbatim}
         "-----------------------"                         
                                              "Standard"   "mean(VIX/100)"
@@ -419,7 +426,7 @@ Lad os nu prøve at delta hedge på S\&P500
 \begin{figure}
     \centering
     \includegraphics[width=3.5in]{Overleaf/option_call_monthlyGBM_monthlyVIX100EWMA}
-    \caption{Venstre: Middel værdi af hver måneds GBM's volatilitet, Højre: middel værdi af alle månedens dage, hvor der hver dag er udregent EWMA 21 dage til bage}
+    \caption{Venstre: Middel værdi af hver måneds GBM's volatilitet $\hat\sigma$, Højre: middel værdi af alle månedens dage, hvor der hver dag er udregent EWMA 21 dage tilbage}
     \begin{verbatim}
         "-----------------------"                         
                                              "Vesntre"       "Højre"
@@ -435,8 +442,8 @@ Lad os nu prøve at delta hedge på S\&P500
 
 \begin{figure}
     \centering
-    \includegraphics[width=4in]{1 product_call_meanrolling_meanEMVA}
-    \caption{Venstre: volatiliteten her er et rullende vindu af GBM'ens volatilitet, Højre: EWMA af venstre's udregninger, Begge: til sidst er der taget et gennemsnit for måneden (til venstre er det dermed et gennemsnit af volatiliteter)}
+    \includegraphics[width=3.5in]{1 product_call_meanrolling_meanEMVA}
+    \caption{Venstre: volatiliteten her er et rullende \color{red}gennemsnit\color{black} af GBM'ens volatilitet (dvs, $\hat\sigma$), Højre: EWMA af venstre's udregninger, Begge: til sidst er der taget et gennemsnit for måneden\color{red}.\color{black}}
     \begin{verbatim}
         "-----------------------"                         
                                              "Vesntre"       "Højre"
@@ -450,8 +457,8 @@ Lad os nu prøve at delta hedge på S\&P500
 \end{figure}
 \begin{figure}
     \centering
-    \includegraphics[width=4in]{2 product_call_meanrolling_meanEMVA}
-    \caption{Venstre: volatiliteten her er et rullende vindu af mean(VIX/100), Højre: EWMA af venstre's udregninger, Begge: til sidst er der taget et gennemsnit for måneden (der er altså tale om en gennemsnit af gennemsnit til venstre)}
+    \includegraphics[width=3.5in]{2 product_call_meanrolling_meanEMVA}
+    \caption{Venstre: volatiliteten her er et rullende \color{red}gennemsnit\color{black} af mean(VIX/100), Højre: EWMA af venstre's udregninger, Begge: til sidst er der taget et gennemsnit for måneden\color{red}.\color{black}}
     \begin{verbatim}
         "-----------------------"                         
                                              "Vesntre"       "Højre"
@@ -464,7 +471,7 @@ Lad os nu prøve at delta hedge på S\&P500
     \label{fig:rullendeVIX}
 \end{figure}
 
-Vi ser altså at det bedste resultat fremkommer ved, at man tager gennemsnittet af alle månedernes estimerede $\sigma_\text{hedge}$ fra afsnit 3.1, og dermed ikke skifter $\sigma_\text{hedge}$ fra måned til måned som det ses i figur \ref{fig:monthGBM}. Gør man det alligevel, ser vi i figur \ref{fig:standard}, at man opnår relativt gode resultater sammenlignet med den før nævnte.
+Vi ser nu at det bedste resultat fremkommer ved, at man tager gennemsnittet af alle månedernes estimerede $\sigma_\text{hedge}$ fra afsnit 3.1, og dermed ikke skifter $\sigma_\text{hedge}$ fra måned til måned som det ses i figur \ref{fig:monthGBM}. Gør man det alligevel, ser vi i figur \ref{fig:standard}, at man opnår relativt gode resultater sammenlignet med den før nævnte.
 
 Både rullende vinduer med middelværdier, og eksponentielt vægtede rullende gennemsnit, lader ikke til at give specielt gode resultater på vores højre figur \ref{fig:monthGBM}, hvor der ses, at den gennemsnitslige fejl er på 104, og som ulig alle de andre ikke har hedge fejl, der ligger i det negative men snare alle er positive. Dette er allarmerende da vi har set fra simulationseksperimentet figur \ref{fig:my_label4} at forkerte $\sigma_\text{hedges}$ burde give negative hedge fejl, når vi kigger på call optioner som vi jo gør her.
 
@@ -473,9 +480,9 @@ Dog er der ingen af vores forsøg i dette afsnit, der indikerer, at vores model 
 \newpage
 
 \section{Konklusion}
-Mens vores Black-Scholes model virker præcis som vi vil have den skal i vores simulations eksperiment, hvor vi sørger for, at teoriens antagelser om, at dataen følger en geometrisk brownsk bevægelse ikke er brudt. Da ser vi i praksis, at dette ikke er tilfældet. Et af problemerne kunne være at volatiliteten i virkeligheden nok afhænger af tiden; noget som vores model ikke kan tage højde for på nogen anden måde end at være skaleret med aktiekursen. Det samme kunne siges om driften (omend volatiliteten virker som et større problem); især når vi ofte taler om bull and bear markets, hvor vi ved at driften har vendt sig.
+Vores Black-Scholes model opføre sig præcis, som vi vil have den skal i simulationseksperimentet, hvor vi sørger for, at teoriens antagelser om, at data følger en geometrisk brownsk bevægelse ikke er brudt. I praksis, ser vi dog ikke de samme fine resultater. Et af problemerne kunne være, at volatiliteten i virkeligheden nok afhænger af tiden; noget som vores model ikke kan tage højde for på anden måde end at være skaleret med aktiekursen. Det samme gøre sig gældende om driften (omend volatiliteten virker som et større problem); især når vi ofte taler om bull and bear markets, hvor vi ved at driften har vendt sig.
 
-En model der råder bod på den bekymring der er rejst her omkring volatiliteten er Heston modellen. En idé til en forbedring af denne afhandling kunne derfor være at bruge den før nævnte model i stedet for Black-Scholes.
+En model der råder bod på den bekymring, der er rejst her omkring volatiliteten er Heston modellen. En idé til en forbedring af dette kunne derfor være at bruge den før nævnte model i stedet for Black-Scholes.
 \newpage
 
 
@@ -484,7 +491,8 @@ En model der råder bod på den bekymring der er rejst her omkring volatiliteten
 \addcontentsline{toc}{section}{Litteratur}
 \addcontentsline{toc}{subsection}{Björk}
 \addcontentsline{toc}{subsection}{Steffensen}
-\bibliographystyle{plain}
+%\bibliographystyle{plain}
+\bibliographystyle{unsrtnm}
 \bibliography{references.bib}
 
 \end{document}
